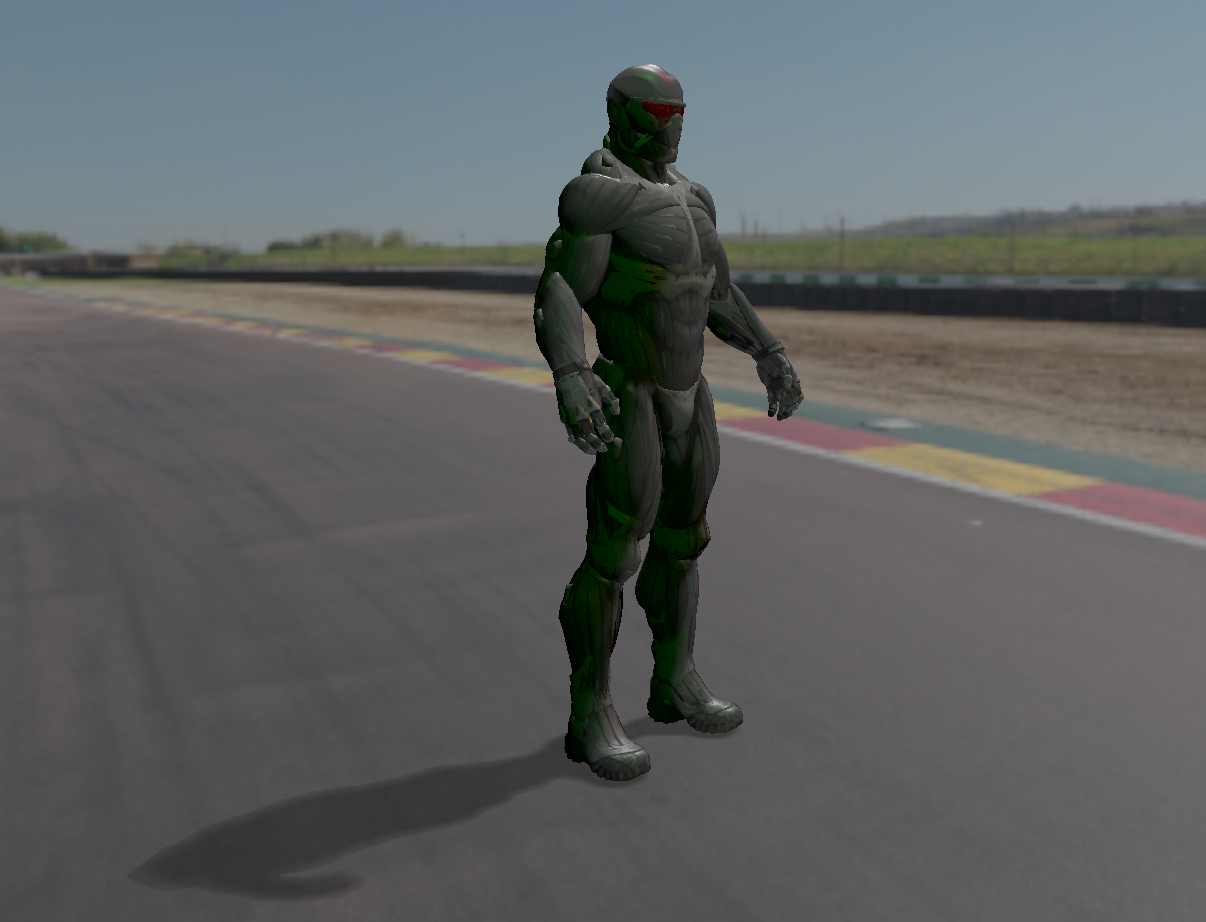
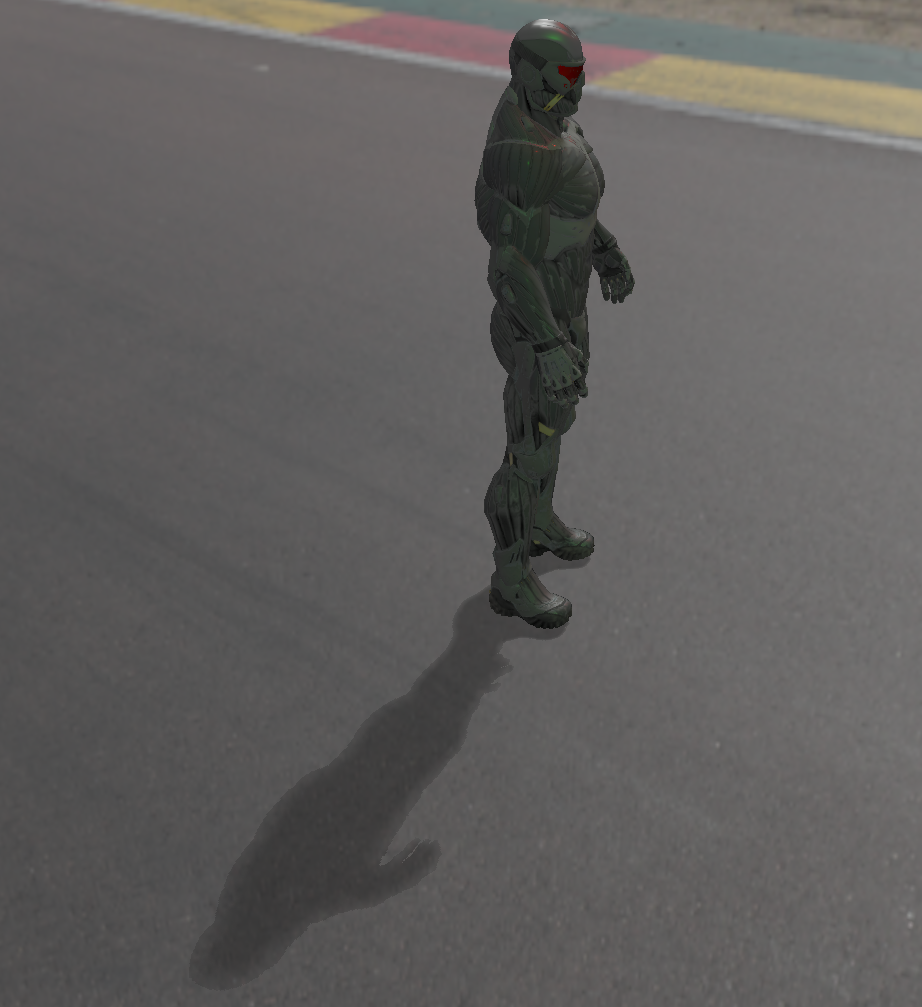
self-shadowing and PCSS

diff --git a/main.cpp b/main.cpp
@@ -95,7 +95,7 @@ int main()
     // ------
     // lighting
     //glm::vec3 lightPos(70,100,-15);
-    glm::vec3 lightPos(70.f, 100.f, 20.f);
+    glm::vec3 lightPos(100.f, 100.f, 20.f);
     glm::vec3 lightPositions[] = {
         glm::vec3(10.0f, 10.0f, 13.0f),
         glm::vec3(-10.0f, 10.0f, 13.0f),
@@ -208,7 +208,7 @@ int main()
         planeShader.use();
         model = glm::mat4(1.0);
 
-        float ftemp = 19.f;
+        float ftemp = 30.f;
         model = glm::translate(model, glm::vec3(5.0f, ftemp, 0.0f));
         model = glm::rotate(model,-20.f, glm::vec3(0.f,  1.f,  0.f));
         model = glm::scale(model, glm::vec3(ftemp));
